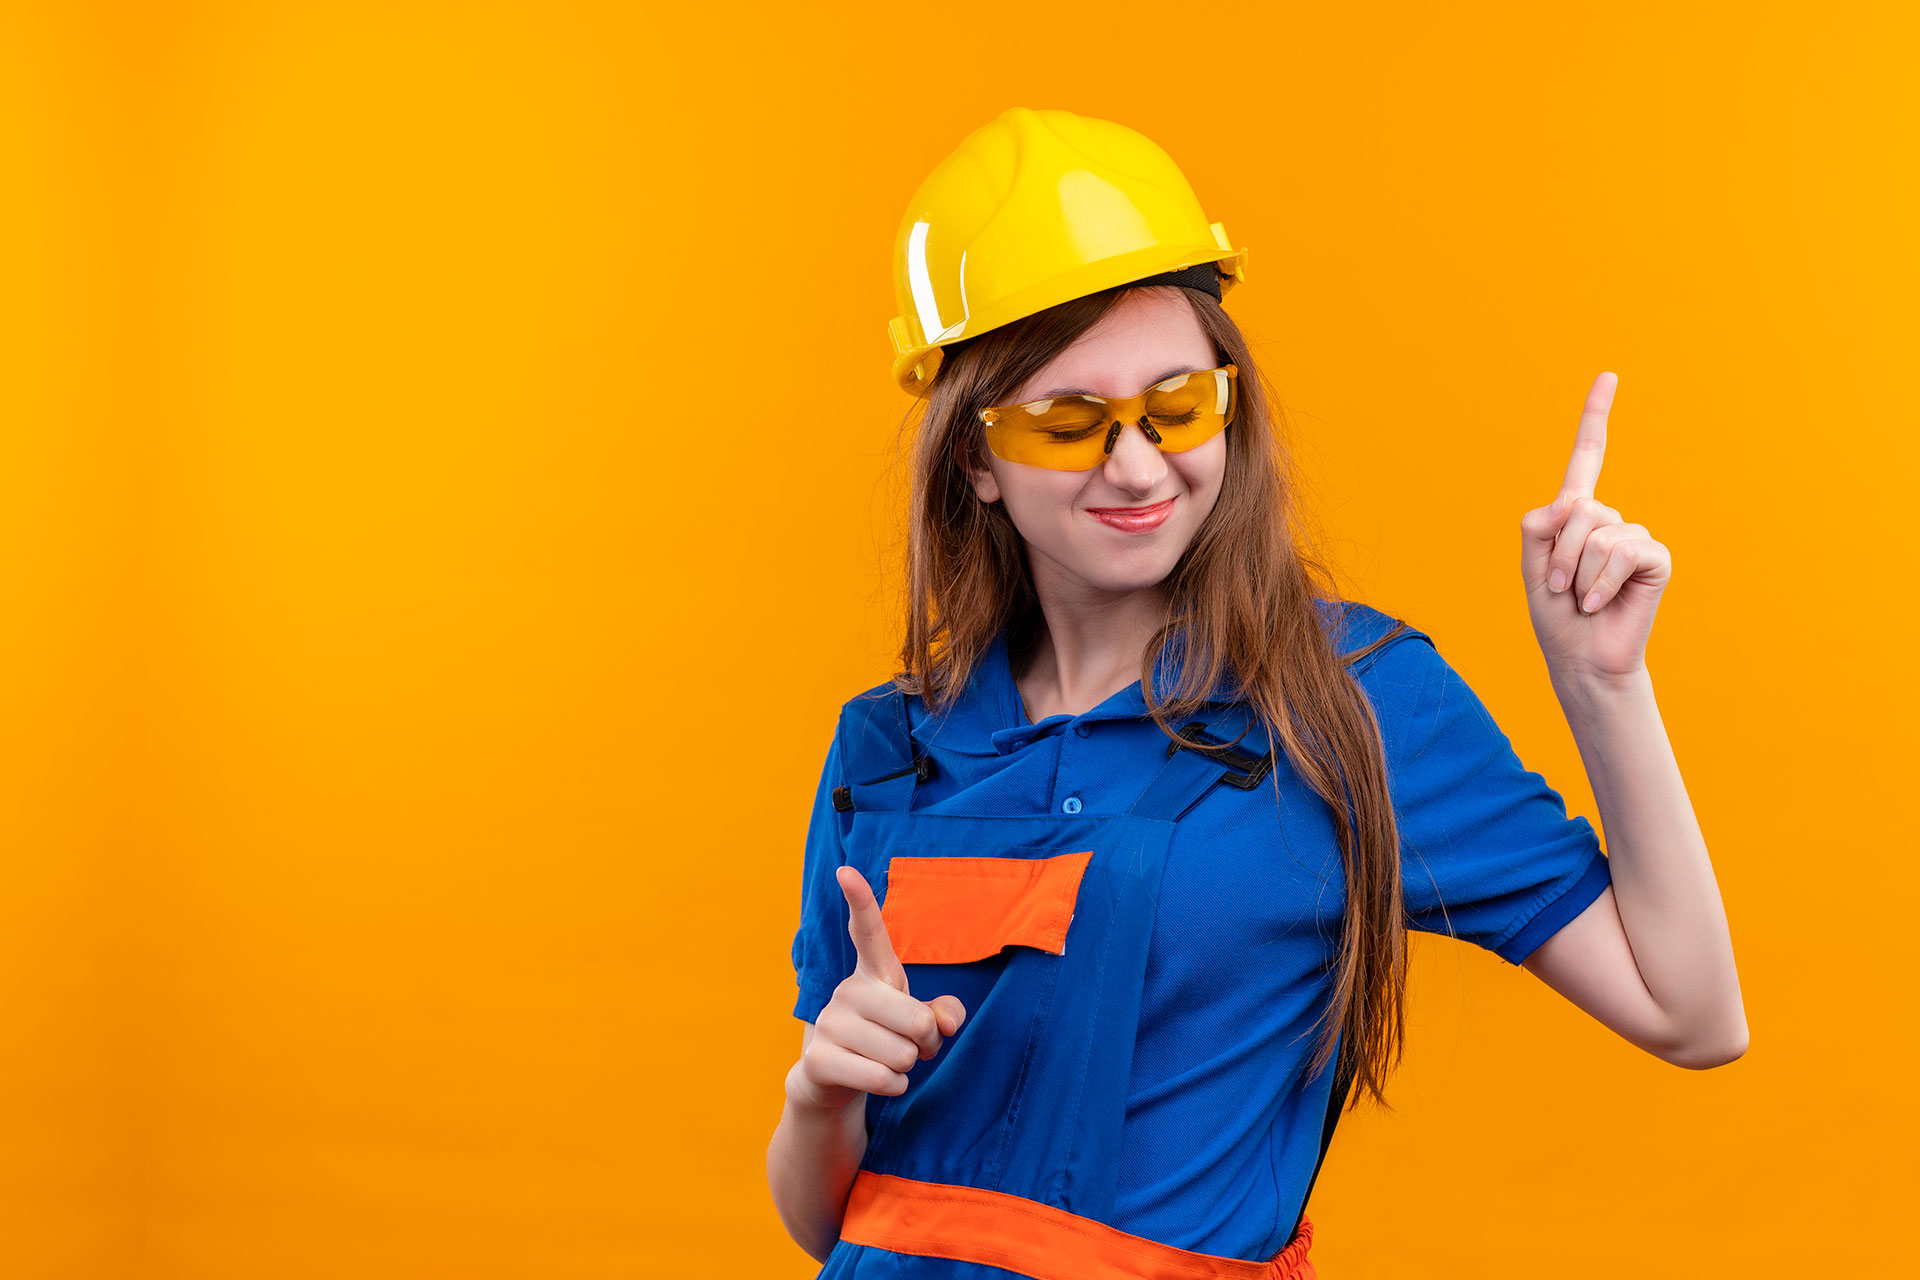
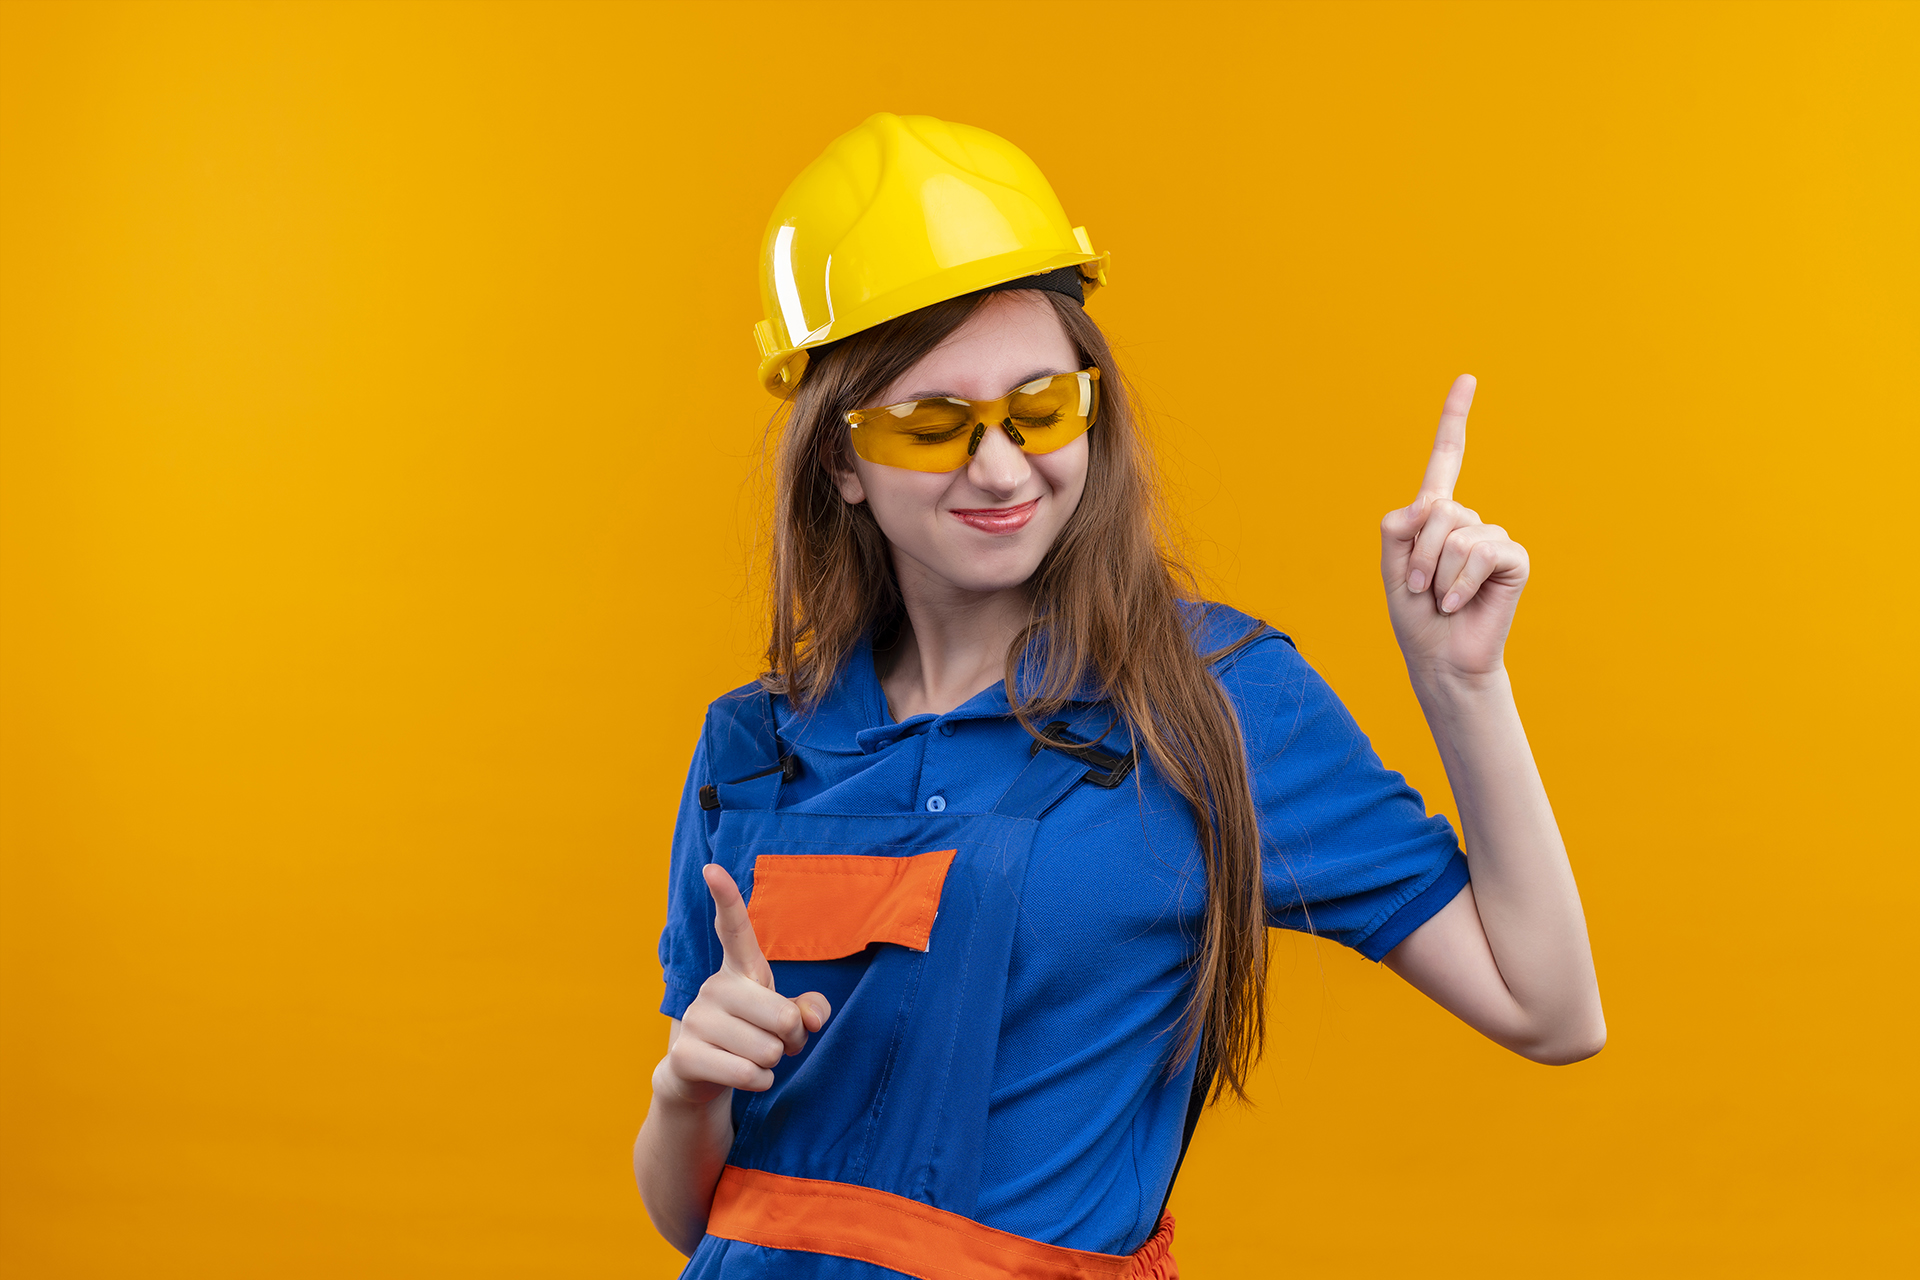
updates

diff --git a/promociones.html b/promociones.html
@@ -3,7 +3,7 @@
 
 <head>
 <meta charset="utf-8">
-<title>IMPACTO Services | Home Carousel</title>
+<title>Promociones | IMPACTO Services</title>
 <!-- Stylesheets -->
 <link href="assets/css/bootstrap.css" rel="stylesheet">
 <link href="assets/css/style.css" rel="stylesheet">
@@ -75,8 +75,6 @@
                             <ul>
                                 <li><a href="lo-ultimo.html">Video Portero</a></li>
                             </ul>
-                        </li>
-                        <li><a href="blog.html">Blog</a></li>
                         <li><a href="contact.html">Contacto</a></li>
                     </ul> 
                 </nav>
@@ -144,7 +142,6 @@
                                 <li><a href="lo-ultimo.html">Video Portero</a></li>
                             </ul>
                         </li>
-                        <li><a href="blog.html">Blog</a></li>
                         <li><a href="contact.html">Contacto</a></li>
                                 </ul> 
 
@@ -169,15 +166,15 @@
                 <div class="swiper-wrapper banner-slider">
                     <!-- SLIDER ITEM -->
                     <div class="banner-slider-item swiper-slide">
-                        <figure class="media-wrapper slide-inner"><img src="assets/images/main-slider/1.jpg" alt=""></figure>
+                        <figure class="media-wrapper slide-inner"><img src="assets/images/main-slider/bienvenido-impacto-services.jpg" alt=""></figure>
 
                         <div class="content-box">
                             <div class="content">
                                 <div class="auto-container">
                                     <div class="inner">
-                                        <h2 class="mask-loader">Welcome</h2>
-                                        <div class="text mask-loader">Our Company has consistently embraced innovation to provide a <br>superior level of excellence for our customers. </div>
-                                        <div class="btn-box mask-loader"><a href="about-us.html" class="theme-btn btn-style-two"><span class="btn-title">About Us</span></a></div>
+                                        <h2 class="mask-loader">Bienvenido</h2>
+                                        <div class="text mask-loader">Aquí encontrarás promociones, equipos de última tecnología, y lanzamientos de nuevos productos o servicios. </div>
+                                        <div class="btn-box mask-loader"><i id="banner-slider-next" class="banner-slider-arrow banner-slider-arrow--next fa fa-angle-down"></i></div>
                                     </div>
                                 </div>
                             </div>
@@ -187,83 +184,21 @@
 
                     <!-- SLIDER ITEM -->
                     <div class="banner-slider-item swiper-slide">
-                        <figure class="media-wrapper slide-inner"><img src="assets/images/main-slider/3.jpg" alt=""></figure>
+                        <figure class="media-wrapper slide-inner"><img src="assets/images/main-slider/video-portero-impacto-services.jpg" alt=""></figure>
 
                         <div class="content-box">
                             <div class="content">
                                 <div class="auto-container">
-                                    <h3>Taking The Best <br> <span class="theme_color">Technical Solutions</span></h3>
-                                    <div class="text">Our Company has consistently embraced innovation to provide a <br>superior level of excellence for our customers. </div>
-                                    <div class="btn-box"><a href="about-us.html" class="theme-btn btn-style-two"><span class="btn-title">Our Services</span></a></div>
+                                    <h3>Video <span class="theme_color">Portero</span></h3>
+                                    <div class="text">Equipos de última tecnología que se conectan al internet para <br> brindarte más funcionalidades en el control de acceso a la tu hogar o la empresa.</div>
+                                    <div class="btn-box"><a href="lo-ultimo.html" class="theme-btn btn-style-two"><span class="btn-title">Ver Promoción</span></a></div>
                                 </div>
                             </div>
                         </div>
                     </div>
                     <!-- SLIDER ITEM -->
 
-                    <!-- SLIDER ITEM -->
-                    <div class="banner-slider-item swiper-slide">
-                        <figure class="media-wrapper slide-inner"><img src="assets/images/main-slider/2.jpg" alt=""></figure>
 
-                        <div class="content-box">
-                            <div class="content">
-                                <div class="auto-container">
-                                    <h3>Provide <span class="theme_color">Best Solution</span> <br>for all Industries</h3>
-                                    <div class="text">Our Company has consistently embraced innovation to provide a <br>superior level of excellence for our customers. </div>
-                                    <div class="btn-box"><a href="services.html" class="theme-btn btn-style-two"><span class="btn-title">Our Services</span></a></div>
-                                </div>
-                            </div>
-                        </div>
-                    </div>
-                    <!-- SLIDER ITEM -->
-
-                    <!-- SLIDER ITEM -->
-                    <div class="banner-slider-item swiper-slide">
-                        <figure class="media-wrapper slide-inner"><img src="assets/images/main-slider/4.jpg" alt=""></figure>
-
-                        <div class="content-box">
-                            <div class="content">
-                                <div class="auto-container">
-                                    <h3>Leading Solution for <br>all <span class="theme_color">Factory Business</span></h3>
-                                    <div class="text">Our Company has consistently embraced innovation to provide a <br>superior level of excellence for our customers. </div>
-                                    <div class="btn-box"><a href="about-us.html" class="theme-btn btn-style-two"><span class="btn-title">Our Projects</span></a></div>
-                                </div>
-                            </div>
-                        </div>
-                    </div>
-                    <!-- SLIDER ITEM -->
-
-                    <!-- SLIDER ITEM -->
-                    <div class="banner-slider-item swiper-slide">
-                        <figure class="media-wrapper slide-inner"><img src="assets/images/main-slider/5.jpg" alt=""></figure>
-
-                        <div class="content-box">
-                            <div class="content">
-                                <div class="auto-container">
-                                    <h3>Provide <span class="theme_color">Best Solution</span> <br>for all Industries</h3>
-                                    <div class="text">Our Company has consistently embraced innovation to provide a <br>superior level of excellence for our customers. </div>
-                                    <div class="btn-box"><a href="team.html" class="theme-btn btn-style-two"><span class="btn-title">Our Team</span></a></div>
-                                </div>
-                            </div>
-                        </div>
-                    </div>
-                    <!-- SLIDER ITEM -->
-
-                    <!-- SLIDER ITEM -->
-                    <div class="banner-slider-item swiper-slide">
-                        <figure class="media-wrapper slide-inner"><img src="assets/images/main-slider/6.jpg" alt=""></figure>
-
-                        <div class="content-box">
-                            <div class="content">
-                                <div class="auto-container">
-                                    <h3>Leading Solution for <br>all <span class="theme_color">Factory Business</span></h3>
-                                    <div class="text">Our Company has consistently embraced innovation to provide a <br>superior level of excellence for our customers. </div>
-                                    <div class="btn-box"><a href="contact.html" class="theme-btn btn-style-two"><span class="btn-title">Contact Us</span></a></div>
-                                </div>
-                            </div>
-                        </div>
-                    </div>
-                    <!-- SLIDER ITEM -->
                 </div>
 
                 <div class="banner-slider-arrows">
@@ -276,10 +211,9 @@
                 <!-- Social Links -->
                 <div class="circular-menu">
                     <div class="items-wrapper">
-                        <a href="#" class="menu-item"><span class="fab fa-facebook"></span></a>
-                        <a href="#" class="menu-item"><span class="fab fa-twitter"></span></a>
-                        <a href="#" class="menu-item"><span class="fab fa-google-plus-g"></span></a>
-                        <a href="#" class="menu-item"><span class="fab fa-linkedin-in"></span></a>
+                        <a href="https://www.instagram.com/impactocontratista" class="menu-item"><span class="fab fa-instagram"></span></a>
+                        <a href="https://www.facebook.com/impactocontratista" class="menu-item"><span class="fab fa-facebook"></span></a>
+                        <a href="https://www.linkedin.com/company/impacto-contratista" class="menu-item"><span class="fab fa-linkedin-in"></span></a>
                     </div>
                     <button class="floating-btn"><i class="fa fa-share-alt"></i></button>
                 </div>
@@ -290,8 +224,6 @@
     </main>
     <!-- End Main Content -->
 </div>
-
-<div class="scroll-to-top scroll-to-target" data-target="html"><span class="fa fa-angle-up"></span></div>
 
 <script src="assets/js/jquery.js"></script> 
 <script src="assets/js/popper.min.js"></script>

diff --git a/divisiones.html b/divisiones.html
@@ -3,7 +3,7 @@
 
 <head>
 <meta charset="utf-8">
-<title>IMPACTO Services | Home Carousel</title>
+<title>Divisiones | IMPACTO Services </title>
 <!-- Stylesheets -->
 <link href="assets/css/bootstrap.css" rel="stylesheet">
 <link href="assets/css/style.css" rel="stylesheet">
@@ -76,7 +76,6 @@
                                 <li><a href="lo-ultimo.html">Video Portero</a></li>
                             </ul>
                         </li>
-                        <li><a href="blog.html">Blog</a></li>
                         <li><a href="contact.html">Contacto</a></li>
                     </ul> 
                 </nav>
@@ -144,7 +143,6 @@
                                 <li><a href="lo-ultimo.html">Video Portero</a></li>
                             </ul>
                         </li>
-                        <li><a href="blog.html">Blog</a></li>
                         <li><a href="contact.html">Contacto</a></li>
                                 </ul> 
 
@@ -169,7 +167,7 @@
                 <div class="swiper-wrapper banner-slider">
                     <!-- SLIDER ITEM -->
                     <div class="banner-slider-item swiper-slide">
-                        <figure class="media-wrapper slide-inner"><img src="assets/images/main-slider/1.jpg" alt=""></figure>
+                        <figure class="media-wrapper slide-inner"><img src="assets/images/main-slider/bienvenido-impacto-services.jpg" alt=""></figure>
 
                         <div class="content-box">
                             <div class="content">
@@ -276,10 +274,9 @@
                 <!-- Social Links -->
                 <div class="circular-menu">
                     <div class="items-wrapper">
-                        <a href="#" class="menu-item"><span class="fab fa-facebook"></span></a>
-                        <a href="#" class="menu-item"><span class="fab fa-twitter"></span></a>
-                        <a href="#" class="menu-item"><span class="fab fa-google-plus-g"></span></a>
-                        <a href="#" class="menu-item"><span class="fab fa-linkedin-in"></span></a>
+                        <a href="https://www.instagram.com/impactocontratista" class="menu-item"><span class="fab fa-instagram"></span></a>
+                        <a href="https://www.facebook.com/impactocontratista" class="menu-item"><span class="fab fa-facebook"></span></a>
+                        <a href="https://www.linkedin.com/company/impacto-contratista" class="menu-item"><span class="fab fa-linkedin-in"></span></a>
                     </div>
                     <button class="floating-btn"><i class="fa fa-share-alt"></i></button>
                 </div>
@@ -290,8 +287,6 @@
     </main>
     <!-- End Main Content -->
 </div>
-
-<div class="scroll-to-top scroll-to-target" data-target="html"><span class="fa fa-angle-up"></span></div>
 
 <script src="assets/js/jquery.js"></script> 
 <script src="assets/js/popper.min.js"></script>

diff --git a/index.html b/index.html
@@ -3,7 +3,7 @@
 
 <head>
 <meta charset="utf-8">
-<title>IMPACTO Services | Home Carousel</title>
+<title>IMPACTO Services | Contratista General</title>
 <!-- Stylesheets -->
 <link href="assets/css/bootstrap.css" rel="stylesheet">
 <link href="assets/css/style.css" rel="stylesheet">
@@ -285,8 +285,9 @@
         <section class="video-section" style="background-image: url(assets/images/background/2.jpg);" data-stellar-background-ratio="0.5">
             <div class="auto-container">
                 <div class="content-box">
-                    <div class="text">WE’RE A LEADING INDUSTRY COMPANY</div>
-                    <h2>We Are Always at The <br>Forefront of The Industrial Market</h2>
+                    <div class="text">SEREMOS UNA EMPRESA LÍDER EN LA INDUSTRIA</div>
+                    <h2>Siempre estamos a la
+                    <br>vanguardia</h2>
                     <a href="https://www.youtube.com/watch?v=Fvae8nxzVz4" class="play-now" data-fancybox="gallery" data-caption=""><i class="icon flaticon-play-button-3" aria-hidden="true"></i><span class="ripple"></span></a>
                 </div>
             </div>
@@ -433,8 +434,8 @@
         <section class="contact-info-section" style="background-image: url(assets/images/background/1.jpg);">
             <div class="auto-container">
                 <div class="content">
-                    <span class="title">Let's work together</span>
-                    <h2>Provide You The <span>Highest Quality</span><br> Work That Meets Your Expectation.</h2>
+                    <span class="title">Que esperas para trabajar juntos</span>
+                    <h2>Brindamos el <span>trabajo de la más alta calidad</span><br> que cumpla con sus expectativas.</h2>
                     <div class="number"><a href="tel:(+291)-456-789-1234">(+291)-456-789-1234</a></div>
                     <a href="contact.html" class="theme-btn btn-style-one"><span class="btn-title">Get A Quote</span></a>
                 </div>
